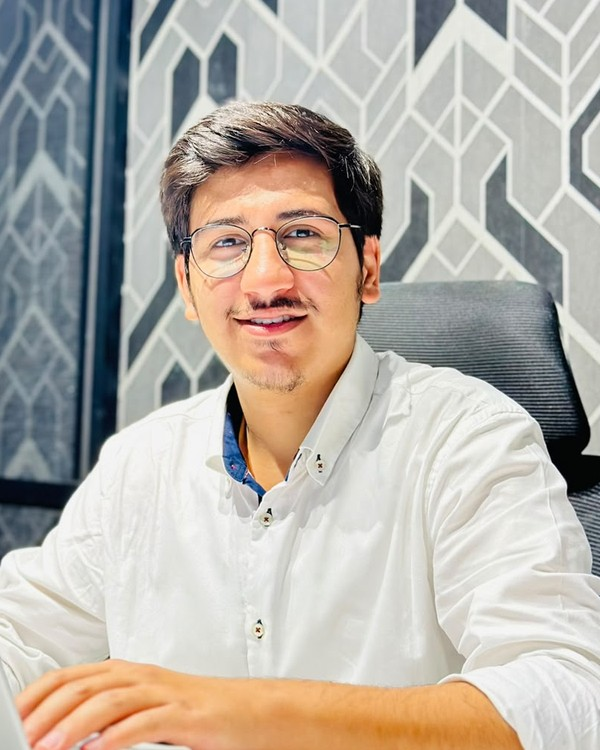
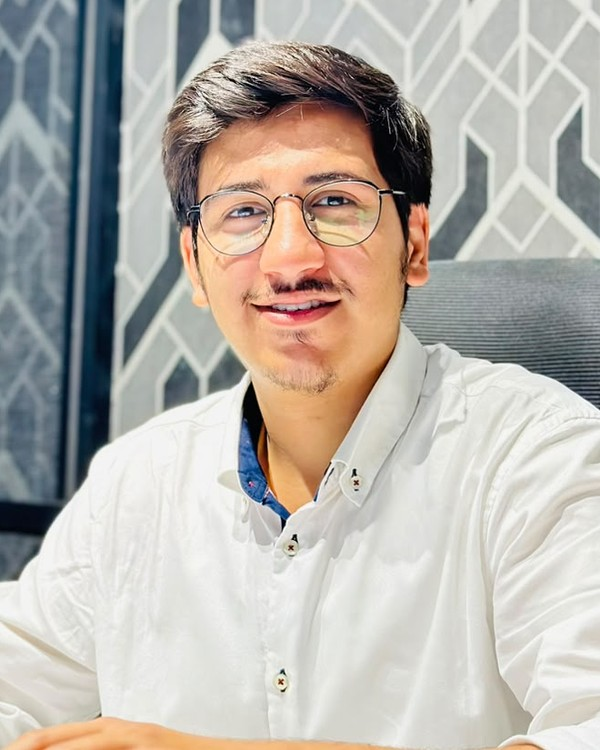
updated

diff --git a/assets/css/style.css b/assets/css/style.css
@@ -746,21 +746,28 @@ html.no-loader .loader { display: none; }
 .cta-band .btn { background: #b8892d; border-color: #b8892d; color: #0d1c42; box-shadow: 4px 4px 0 #fcf9ea; }
 .cta-band .btn.light { background: #fcf9ea; border-color: #fcf9ea; color: #0d1c42; box-shadow: 4px 4px 0 #b8892d; }
 
-/* CEO message (home page) */
-.ceo .split { grid-template-columns: .8fr 1.2fr; gap: 72px; align-items: center; }
-.ceo-photo { margin: 0; max-width: 420px; justify-self: center; width: 100%; }
-.ceo-photo img { display: block; width: 100%; height: auto; border: 2px solid #fcf9ea; box-shadow: 10px 10px 0 #b8892d; background: #13285d; }
-.ceo-photo figcaption { margin-top: 28px; font-family: var(--f-mono); font-size: 13px; letter-spacing: .05em; text-transform: uppercase; color: #dfd9c3; }
-.ceo-photo figcaption b { display: block; font-family: var(--f-head); font-size: 30px; font-weight: 700; letter-spacing: 0; text-transform: none; color: #fcf9ea; line-height: 1.1; margin-bottom: 4px; }
-.ceo-msg h2 { margin-bottom: 26px; }
-.ceo-msg blockquote { margin: 0; padding-left: 28px; border-left: 4px solid var(--orange); }
-.ceo-msg blockquote p { font-size: 19px; line-height: 1.65; margin: 0 0 18px; color: #f4f0e1; }
-.ceo-msg .sign { margin: 22px 0 0 32px; font-family: var(--f-head); font-size: 28px; font-weight: 600; color: var(--orange); }
-@media (max-width: 860px) { .ceo .split { grid-template-columns: 1fr; gap: 40px; } .ceo-photo { max-width: 340px; } }
-
-/* CDO card (under the CEO message) */
-.cdo { display: flex; align-items: center; gap: 30px; margin-top: 72px; padding-top: 44px; border-top: 1px solid #37466c; }
-.cdo img { display: block; width: 150px; height: auto; flex: none; border: 2px solid #fcf9ea; box-shadow: 6px 6px 0 #b8892d; background: #13285d; }
-.cdo b { display: block; font-family: var(--f-head); font-size: 32px; font-weight: 700; line-height: 1.1; color: #fcf9ea; margin-top: 6px; }
-.cdo .role { font-family: var(--f-mono); font-size: 13px; letter-spacing: .05em; text-transform: uppercase; color: #dfd9c3; }
-@media (max-width: 520px) { .cdo { gap: 20px; } .cdo img { width: 110px; } .cdo b { font-size: 26px; } }
+/* Leadership: CEO + CDO side by side at equal size, CEO message below */
+.leaders-head { text-align: center; margin-bottom: 56px; }
+.leaders-head .tag { justify-content: center; }
+.leaders-head h2 { margin: 0; }
+.leader-grid { display: grid; grid-template-columns: repeat(2, minmax(0, 340px)); gap: 56px; justify-content: center; }
+.leader { margin: 0; }
+.leader img { display: block; width: 100%; height: auto; aspect-ratio: 4 / 5; object-fit: cover; border: 2px solid #fcf9ea; box-shadow: 8px 8px 0 #b8892d; background: #13285d; }
+.leader figcaption { margin-top: 26px; }
+.leader figcaption b { display: block; font-family: var(--f-head); font-size: 30px; font-weight: 700; line-height: 1.1; color: #fcf9ea; margin-bottom: 4px; }
+.leader figcaption span { font-family: var(--f-mono); font-size: 13px; letter-spacing: .05em; text-transform: uppercase; color: #dfd9c3; }
+.ceo-quote { max-width: 780px; margin: 80px auto 0; padding-top: 56px; border-top: 1px solid #37466c; }
+.ceo-quote h3 { font-size: clamp(30px, 3.6vw, 44px); margin: 0 0 24px; }
+.ceo-quote blockquote { margin: 0; padding-left: 28px; border-left: 4px solid var(--orange); }
+.ceo-quote blockquote p { font-size: 19px; line-height: 1.65; margin: 0 0 18px; color: #f4f0e1; }
+.ceo-quote .sign { margin: 22px 0 0 32px; font-family: var(--f-head); font-size: 28px; font-weight: 600; color: var(--orange); }
+@media (max-width: 620px) {
+  .leader-grid { gap: 18px; }
+  .leader img { box-shadow: 5px 5px 0 #b8892d; }
+  .leader figcaption { margin-top: 18px; }
+  .leader figcaption b { font-size: 21px; }
+  .leader figcaption span { font-size: 11px; }
+  .ceo-quote { margin-top: 56px; padding-top: 40px; }
+  .ceo-quote blockquote { padding-left: 18px; }
+  .ceo-quote .sign { margin-left: 22px; }
+}

diff --git a/index.html b/index.html
@@ -375,30 +375,31 @@
   </div>
 </section>
 
-<section class="on-dark ceo" id="ceo">
-  <div class="wrap split">
-    <figure class="ceo-photo reveal">
-      <img src="assets/img/ceo-syed.jpg" alt="Syed, CEO of Marketplace Moguls Services" width="503" height="610" loading="lazy">
-      <figcaption><b>Syed</b>CEO, Marketplace Moguls</figcaption>
-    </figure>
-    <div class="ceo-msg reveal">
+<section class="on-dark leaders" id="leadership">
+  <div class="wrap">
+    <div class="leaders-head reveal">
+      <div class="tag">Leadership</div>
+      <h2>The people behind your fulfillment</h2>
+    </div>
+    <div class="leader-grid">
+      <figure class="leader reveal">
+        <img src="assets/img/ceo-syed.jpg" alt="Syed, CEO of Marketplace Moguls Services" width="503" height="629" loading="lazy">
+        <figcaption><b>Syed</b><span>CEO</span></figcaption>
+      </figure>
+      <figure class="leader reveal">
+        <img src="assets/img/cdo-usama.jpg" alt="Usama Farooq, Chief of Digital Operations" width="600" height="750" loading="lazy">
+        <figcaption><b>Usama Farooq</b><span>Chief of Digital Operations</span></figcaption>
+      </figure>
+    </div>
+    <div class="ceo-quote reveal">
       <div class="tag">A message from our CEO</div>
-      <h2>Your brand is our brand.</h2>
+      <h3>Your brand is our brand.</h3>
       <blockquote>
         <p>When you hand us your inventory, you are handing us your reputation. Every label, every count and every box that leaves our Bolingbrook warehouse carries your name, so we treat it that way.</p>
         <p>We built Marketplace Moguls around three promises: accurate fulfillment, discounted rates and total transparency. Our prices are posted on this site, your goods ship within 24 hours of reaching our dock, and if something is off, you hear it from us first.</p>
         <p>Whether you are sending your first pallet or your fiftieth, we want to be the warehouse that makes your work easier. Send us your SKU list and we will show you what working together looks like.</p>
       </blockquote>
       <div class="sign">Syed, CEO</div>
-    </div>
-  </div>
-  <div class="wrap">
-    <div class="cdo reveal">
-      <img src="assets/img/cdo-usama.jpg" alt="Usama Farooq, Chief of Digital Operations" width="600" height="750" loading="lazy">
-      <div>
-        <div class="role">Chief of Digital Operations</div>
-        <b>Usama Farooq</b>
-      </div>
     </div>
   </div>
 </section>
